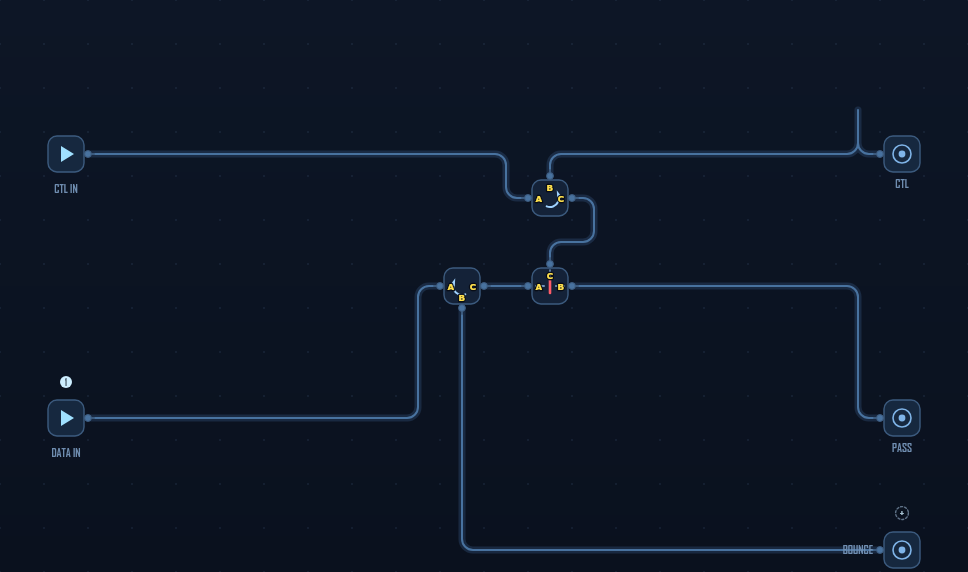
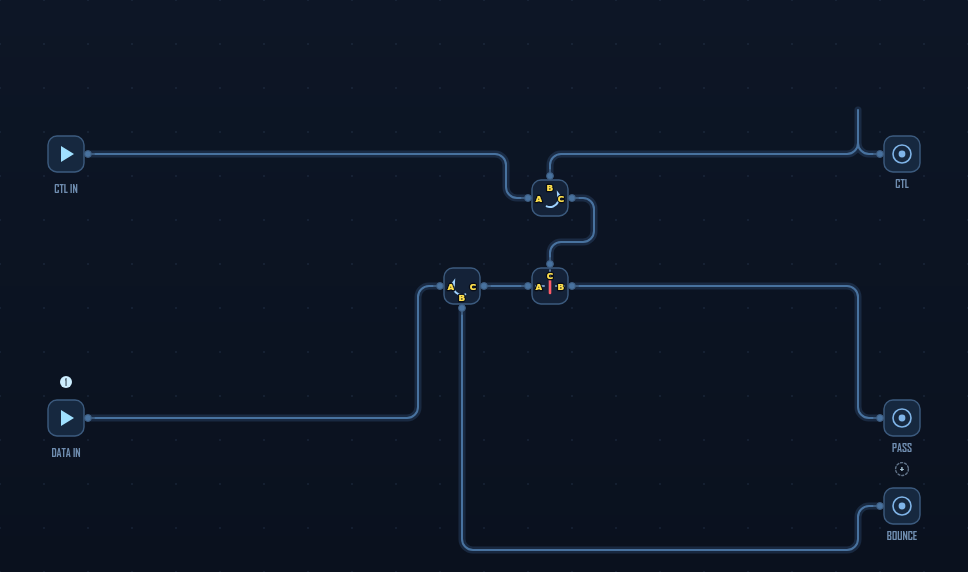
Nudge bottom-flush labeled detectors up a row + suite guard for label room
Play-test find (Michael, w2l1): a labeled element flush with the bottom row
gets its name drawn BESIDE it (ui.js flips the label when it would fall off
the canvas), and an incoming west-side wire then runs through the text. Three
offenders game-wide, all (20,12) detectors on 13-row boards: w2l1 BOUNCE,
w4l4 + w4l5 C-bar-D. All moved to (20,11); every reference re-certified with
its existing wiring (auto-elbows absorbed the endpoint move). New run-tests
guard checkLabelRoom: labeled fixed elements must not touch the bottom row.
Renders regenerated for the three levels. Suite 586+196 green.

Changed region(s): [[0.8678, 0.8322, 0.9607, 1.0]]

diff --git a/js/levels.js b/js/levels.js
@@ -170,7 +170,7 @@ arrivals matters. The device sits quietly between pulses — there is no clock h
       notebook: ['tcb'],
       fixed: [
         el('L_C', 'LAUNCHER', 1, 3), el('L_D', 'LAUNCHER', 1, 9),
-        el('D_ctl', 'DETECTOR', 20, 3), el('D_pass', 'DETECTOR', 20, 9), el('D_refl', 'DETECTOR', 20, 12),
+        el('D_ctl', 'DETECTOR', 20, 3), el('D_pass', 'DETECTOR', 20, 9), el('D_refl', 'DETECTOR', 20, 11),
       ],
       labels: { L_C: 'CTL IN', L_D: 'DATA IN', D_ctl: 'CTL', D_pass: 'PASS', D_refl: 'BOUNCE' },
       palette: { TCB: 1, ROTARY: 2 },
@@ -715,7 +715,7 @@ The future is the next level.`,
       fixed: [
         el('cb', 'CB', 11, 6, 0, { state: M }),
         el('L_C', 'LAUNCHER', 1, 8), el('L_D', 'LAUNCHER', 1, 11),
-        el('D_cout', 'DETECTOR', 20, 2), el('D_cd', 'DETECTOR', 20, 8), el('D_ncd', 'DETECTOR', 20, 12),
+        el('D_cout', 'DETECTOR', 20, 2), el('D_cd', 'DETECTOR', 20, 8), el('D_ncd', 'DETECTOR', 20, 11),
       ],
       labels: { L_C: 'C IN', L_D: 'D IN', D_cout: 'C OUT', D_cd: 'C·D', D_ncd: 'C̄·D', cb: 'CB' },
       palette: { PS: 2, CIRC: 1 },
@@ -753,7 +753,7 @@ without one — the BARCS bibliography in the Notebook tells you exactly who to 
       fixed: [
         el('cb', 'CB', 11, 6, 0, { state: M }),
         el('L_C', 'LAUNCHER', 1, 8), el('L_D', 'LAUNCHER', 1, 11),
-        el('D_cout', 'DETECTOR', 20, 2), el('D_cd', 'DETECTOR', 20, 8), el('D_ncd', 'DETECTOR', 20, 12),
+        el('D_cout', 'DETECTOR', 20, 2), el('D_cd', 'DETECTOR', 20, 8), el('D_ncd', 'DETECTOR', 20, 11),
       ],
       labels: { L_C: 'C IN', L_D: 'D IN', D_cout: 'C OUT', D_cd: 'C·D', D_ncd: 'C̄·D', cb: 'CB' },
       palette: { RPS: 2, PR3: 1 },
